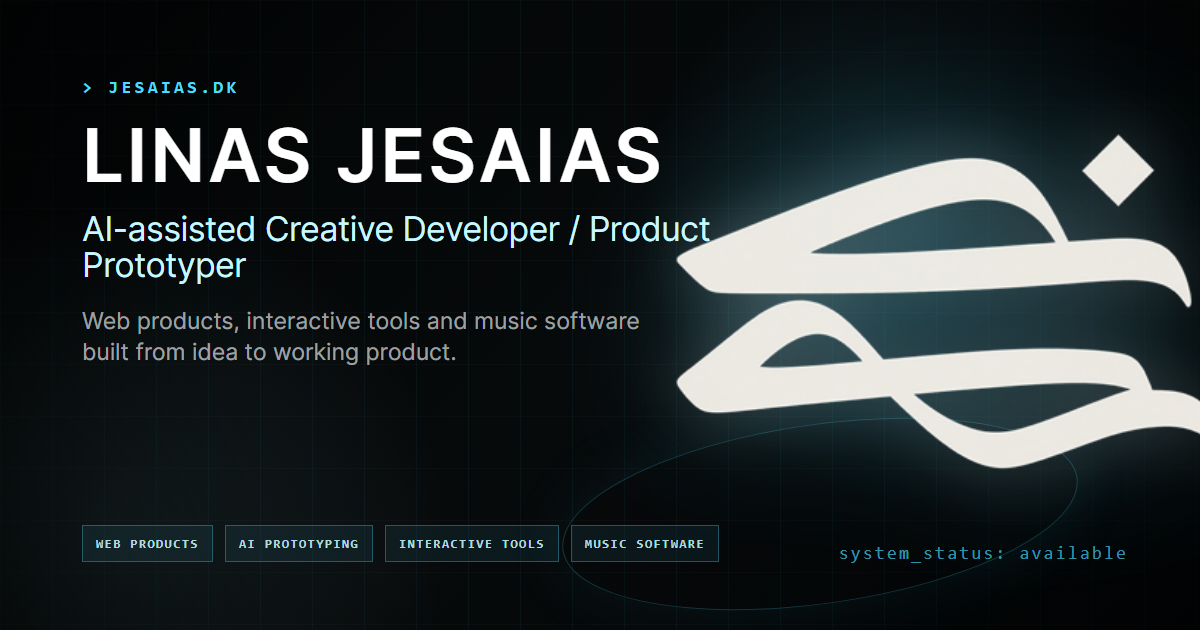
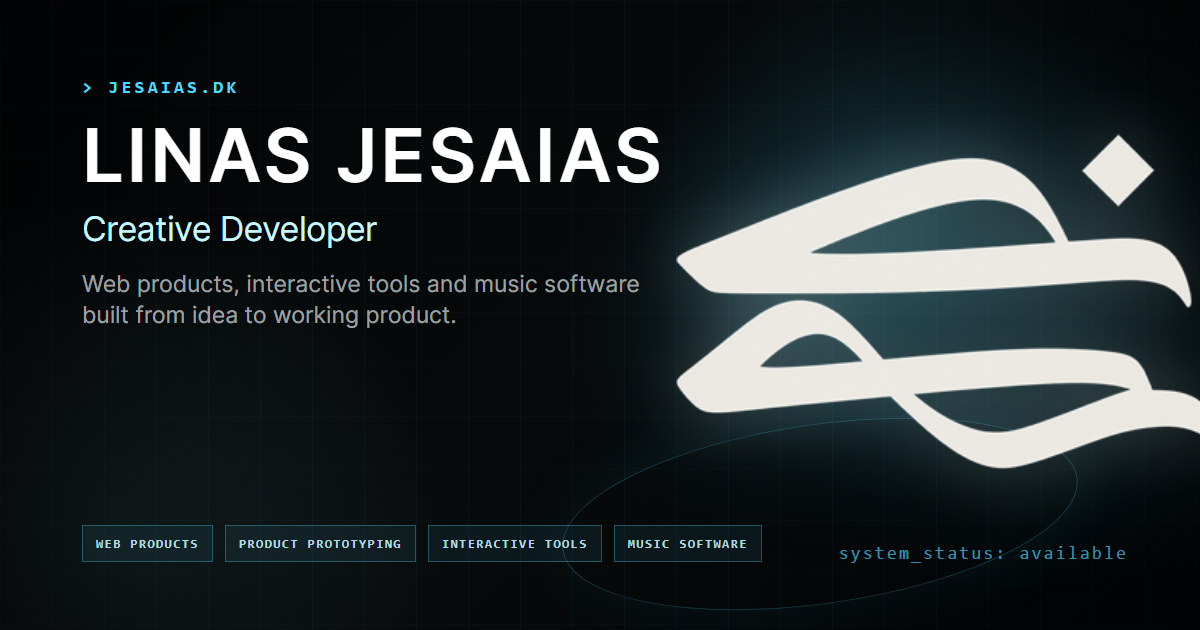
Refine creative developer positioning

Changed region(s): [[0.0617, 0.3317, 0.5858, 0.573], [0.185, 0.8444, 0.6167, 0.8746]]

diff --git a/src/app/layout.tsx b/src/app/layout.tsx
@@ -24,12 +24,12 @@ const jetbrainsMono = JetBrains_Mono({
 export const metadata: Metadata = {
   metadataBase: new URL(SITE_URL),
   title: {
-    default: "Linas Jesaias - AI-assisted Creative Developer",
+    default: "Linas Jesaias - Creative Developer",
     template: "%s | Jesaias",
   },
   applicationName: "Jesaias Portfolio",
-  description: "AI-assisted creative developer in Copenhagen building web products, interactive tools and music software from idea to working product.",
-  keywords: ["Linas Jesaias", "Jesaias", "AI-assisted creative developer", "product prototyper", "frontend developer", "audio software", "interactive tools", "Next.js", "Copenhagen"],
+  description: "Creative developer in Copenhagen building web products, interactive tools and music software from idea to working product.",
+  keywords: ["Linas Jesaias", "Jesaias", "creative developer", "product prototyper", "frontend developer", "audio software", "interactive tools", "Next.js", "Copenhagen"],
   authors: [{ name: "Linas Jesaias" }],
   creator: "Linas Jesaias",
   publisher: "Linas Jesaias",
@@ -48,7 +48,7 @@ export const metadata: Metadata = {
     locale: 'en_US',
     url: SITE_URL,
     siteName: 'Linas Jesaias - Creative Product Builder',
-    title: 'Linas Jesaias - AI-assisted Creative Developer / Product Prototyper',
+    title: 'Linas Jesaias - Creative Developer',
     description: 'Web products, interactive tools and music software built from idea to working product.',
     images: [
       {
@@ -63,7 +63,7 @@ export const metadata: Metadata = {
   },
   twitter: {
     card: 'summary_large_image',
-    title: 'Linas Jesaias - AI-assisted Creative Developer / Product Prototyper',
+    title: 'Linas Jesaias - Creative Developer',
     description: 'Web products, interactive tools and music software built from idea to working product.',
     images: ['/og-portfolio-2026.png'],
   },
@@ -113,9 +113,9 @@ export default function RootLayout({
                   "@id": `${SITE_URL}/#person`,
                   "name": "Linas Jesaias",
                   "url": SITE_URL,
-                  "jobTitle": "AI-assisted Creative Developer / Product Prototyper",
-                  "description": "Creative product builder creating web products, interactive tools and music software with visual direction, product thinking and AI-assisted development workflows.",
-                  "knowsAbout": ["AI-assisted development", "Frontend development", "Product prototyping", "Audio software", "Creative coding", "Game logic"],
+                  "jobTitle": "Creative Developer",
+                  "description": "Creative developer creating web products, interactive tools and music software with visual direction, product thinking and AI-supported development workflows.",
+                  "knowsAbout": ["Creative development", "Frontend development", "Product prototyping", "AI harnesses", "Audio software", "Creative coding", "Game logic"],
                   "sameAs": [
                     "https://github.com/jesaias1",
                     "https://www.linkedin.com/in/jesaias/",

diff --git a/src/components/About.tsx b/src/components/About.tsx
@@ -26,14 +26,14 @@ const disciplines = [
 
 const processSteps = [
   ['Direction', 'Clarify the product, audience, visual direction and first useful version before building too wide.'],
-  ['Prototype', 'Move into React, Next.js, TypeScript, Tailwind and AI-assisted coding workflows to make the idea tangible.'],
+  ['Prototype', 'Move into React, Next.js, TypeScript, Tailwind and AI harnesses for coding, debugging and iteration to make the idea tangible.'],
   ['Test', 'Debug flows, interaction timing, edge cases and mobile behavior until the experience feels reliable.'],
   ['Polish', 'Refine copy, motion, responsiveness and the small product details that make a demo feel credible.'],
 ];
 
 const workSignals = [
   ['Best fit', 'Creative frontend roles, product prototypes, interactive tools and music software ideas.'],
-  ['Workflow', 'Creative direction, AI-assisted implementation, debugging, testing and fast iteration.'],
+  ['Workflow', 'Creative direction, AI harnesses for implementation support, debugging, testing and fast iteration.'],
   ['Tools', 'React, Next.js, TypeScript, Tailwind, Framer Motion and real-time web concepts.'],
   ['Currently deepening', 'JavaScript fundamentals, React patterns, TypeScript architecture, JUCE/C++ and APIs.'],
 ];

diff --git a/src/components/TerminalOverlay.tsx b/src/components/TerminalOverlay.tsx
@@ -80,7 +80,7 @@ export default function TerminalOverlay({ isOpen, onClose }: TerminalOverlayProp
         setHistory(prev => [...prev, 'Available commands:', '- about: Brief bio', '- work: Go to projects', '- audio: Open music software', '- demo: Open presentation mode', '- social: Links', '- owner: Hidden owner commands', '- clear: Clear display', '- exit: Shutdown terminal']);
         break;
       case 'about':
-        setHistory(prev => [...prev, 'BIO: AI-assisted creative developer and product prototyper. Building web products, interactive tools and music software with visual direction and fast iteration.']);
+        setHistory(prev => [...prev, 'BIO: Creative developer building web products, interactive tools and music software with visual direction, product thinking and AI harnesses for faster iteration.']);
         break;
       case 'work':
       case 'projects':

diff --git a/src/app/page.tsx b/src/app/page.tsx
@@ -158,7 +158,7 @@ function Footer() {
               &gt; jesaias.dk
             </span>
             <p className="max-w-xs font-mono text-xs leading-relaxed text-gray-600">
-              AI-assisted creative developer building web products, interactive tools and music software.
+              Creative developer building web products, interactive tools and music software.
             </p>
           </div>
 
